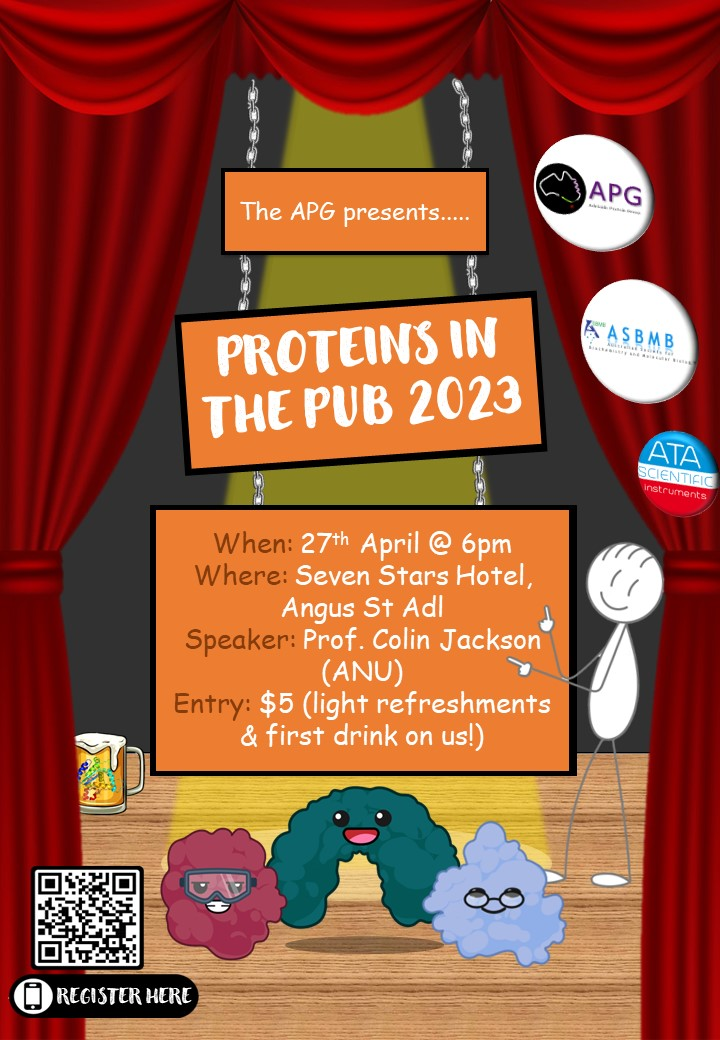
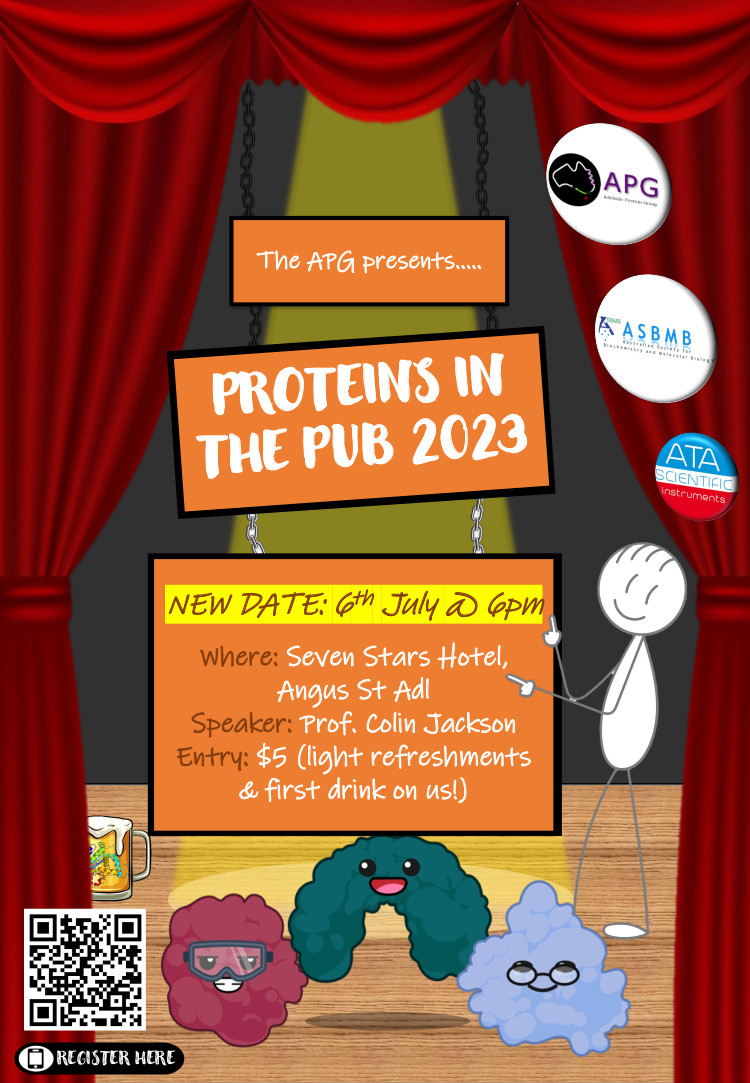
update pitp

diff --git a/_posts/2023-04-13-pitp.md b/_posts/2023-04-13-pitp.md
@@ -4,11 +4,10 @@ title: "Proteins in the Pub 2023"
 categories: events
 ---
 
-## POSTPONED!
+Proteins in the pub is back on!
+Join us for our annual networking event with special guest speaker Prof. Colin Jackson
 
-__This event has been postponed thanks to some surprise COVID. New date TBA; watch this space!__
+[Please re-register at the new Eventbrite page](https://www.eventbrite.com.au/e/proteins-in-the-pub-2023-tickets-662785708897)
 
-[RSVP via Eventbrite](https://www.eventbrite.com.au/e/proteins-in-the-pub-2023-tickets-603034190497)
-
-![](/assets/images/2023_pitp_postponed.png)
+![](/assets/images/2023_pitp.jpg)
 
